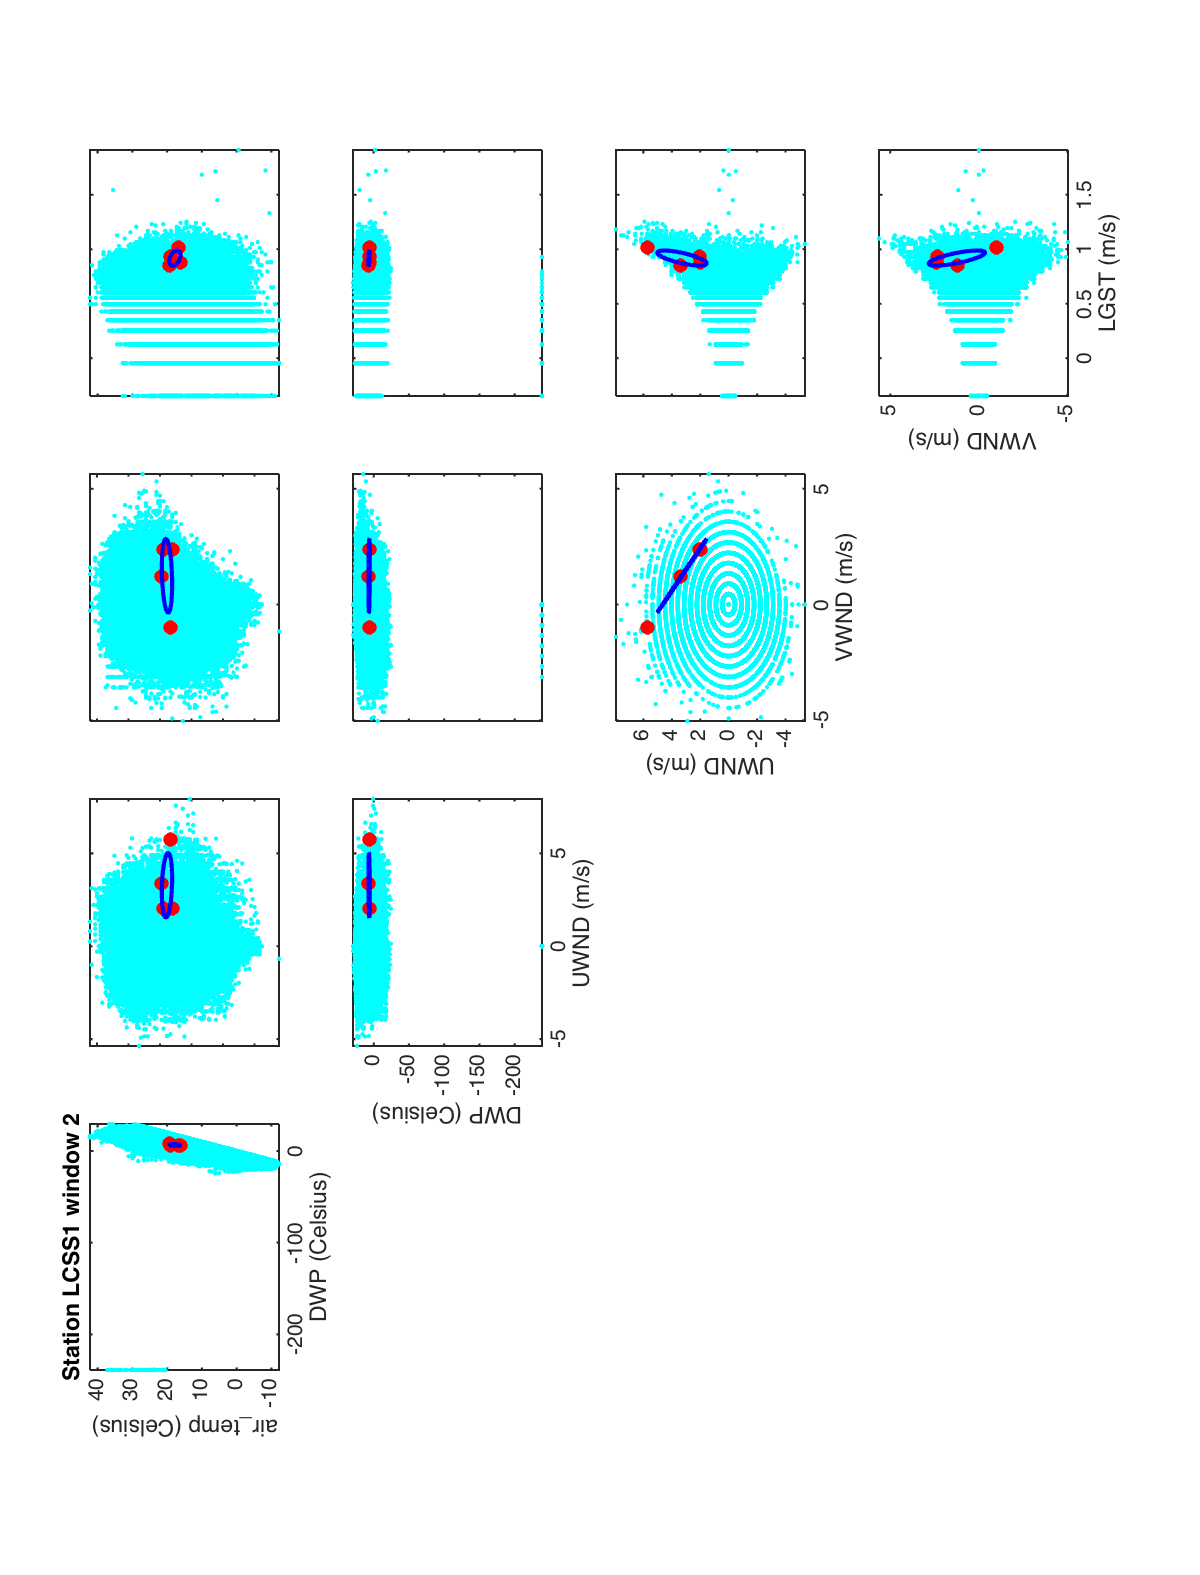
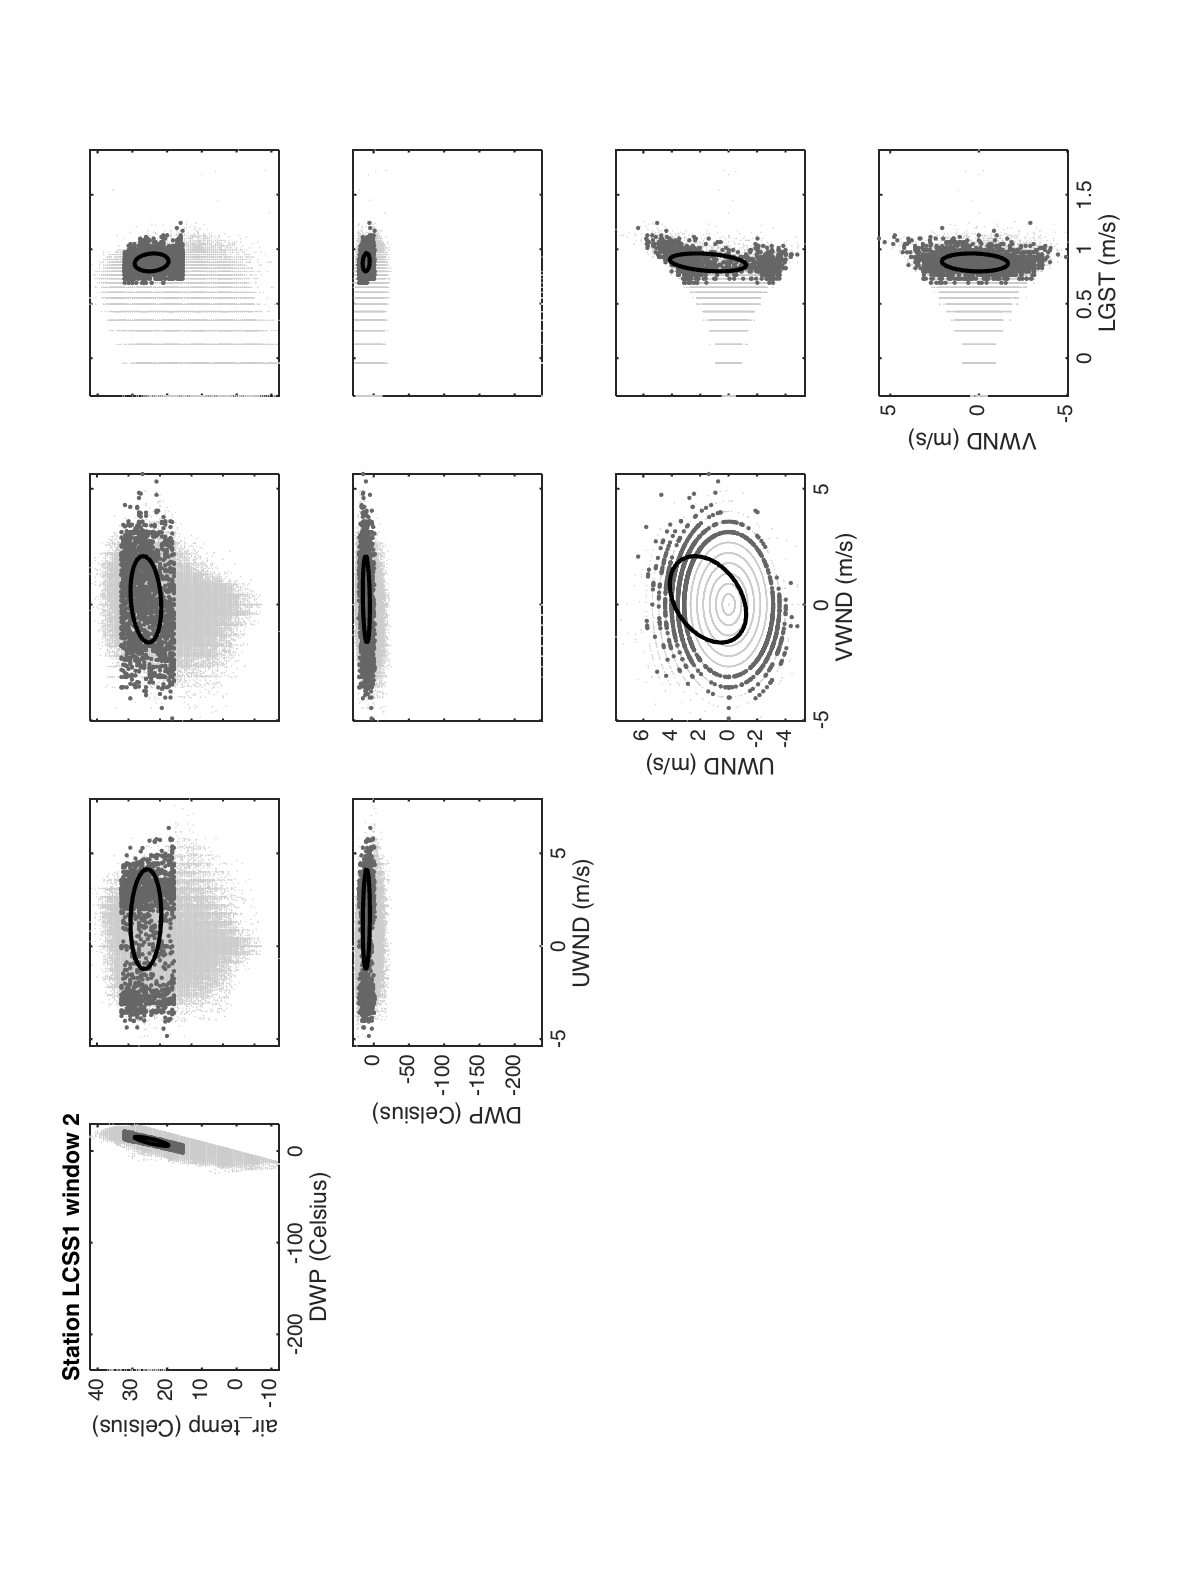
plot data with covariance ellipses

diff --git a/aimefournier/matlab/analXls.m b/aimefournier/matlab/analXls.m
@@ -179,7 +179,7 @@
     sta(i).u{kd} = sta(i).u{ks};	% change label units
  end,clear d2c i j kd kg kr ks kt
  %% 
- if ~any(strcmp(fieldnames(sta),'mom'))	% Moments not computed yet
+ if ~any(strcmp(fieldnames(sta), 'mom'))% Moments not computed yet
     %
     % Get indexes for data types:
     %
@@ -188,7 +188,7 @@
     ku = find(strcmp(datList(1 : nDat), 'UWND'     ));
     kv = find(strcmp(datList(1 : nDat), 'VWND'     ));
     ib = @(a,x) a(1) <= x & x <= a(2);	% in-between condition
-%     n = sum(cell2mat({sta.nWin})) + 1;
+    n = sum(cell2mat({sta.nWin})) + 1;
     for i = lSta			% station (with burn requirements) loop:
        for l = 1 : sta(i).nWin		% window loop at station i:
 	  %
@@ -238,9 +238,9 @@
 	  end
 	  g = logical(prod(f, 2));	% 'AND' through all requirements
 	  if sum(g) > 1			% at least 2 data pass requirements
-% 	     figure(n)
-% 	     set(gcf, 'Units', 'normalized', 'OuterPosition', [1/8 0 7/8 1], 'Units', 'pixels')
-% 	     clf
+	     figure(n)
+	     set(gcf, 'Units', 'normalized', 'OuterPosition', [1/8 0 7/8 1], 'Units', 'pixels')
+	     clf
 	     m = 0;			% initialize correlation index
 	     for k = 1 : nDat - 1	% correlation row k
 		for j = k + 1 : nDat	% correlation column j (upper diagonal)
@@ -250,28 +250,28 @@
 		   %
 		   a = corrcoef(sta(i).d(g,j), sta(i).d(g,k));
 		   sta(i).mom(l).r(m) = a(1,2);
-% 		   subplot(nDat - 1, nDat - 1, (nDat - 1)*(k - 1) + j - 1, 'align')
-% 		   plot(sta(i).d(~g,j), sta(i).d(~g,k), 'c.', ...
-% 		        sta(i).d( g,j), sta(i).d( g,k), 'ro', 'MarkerFaceColor', 'r')
-% 		   set(covEllip(sta(i).mom(l).s([j k]), sta(i).mom(l).r(m), sta(i).mom(l).m([j k])), ...
-% 		      'Color', 'b', 'LineWidth', 2)
-% 		   if j == k + 1
-% 		      if k == 1
-% 			 title(sprintf('Station %s window %d', sta(i).name, l))
-% 		      end
-% 		      xlabel(sprintf('%s (%s)', strrep(datList{j}, '_', '\_'), sta(i).u{j}))
-% 		      ylabel(sprintf('%s (%s)', strrep(datList{k}, '_', '\_'), sta(i).u{k}))
-% 		   else
-% 		      set(gca, 'XTickLabel', '', 'YTickLabel', '')
-% 		   end
-% 		   axis tight
+		   subplot(nDat - 1, nDat - 1, (nDat - 1)*(k - 1) + j - 1, 'align')
+		   plot(sta(i).d(~g,j), sta(i).d(~g,k), '.', 'Color', .8*[1 1 1], 'MarkerSize', 1)
+		   line(sta(i).d( g,j), sta(i).d( g,k), 'Color', .4*[1 1 1], 'LineStyle', 'none', 'Marker', '.', 'MarkerSize', 6)
+		   set(covEllip(sta(i).mom(l).s([j k]), sta(i).mom(l).r(m), sta(i).mom(l).m([j k])), ...
+		      'Color', 'k', 'LineWidth', 2)
+		   if j == k + 1
+		      if k == 1
+			 title(sprintf('Station %s window %d', sta(i).name, l))
+		      end
+		      xlabel(sprintf('%s (%s)', strrep(datList{j}, '_', '\_'), sta(i).u{j}))
+		      ylabel(sprintf('%s (%s)', strrep(datList{k}, '_', '\_'), sta(i).u{k}))
+		   else
+		      set(gca, 'XTickLabel', '', 'YTickLabel', '')
+		   end
+		   axis tight
 		end
 	     end
-% 	     drawnow
-% 	     orient tall
-% 	     orient landscape		% needs to follow 'tall'
-% 	     print(n, '-dpng', sprintf('figures/%s_w%d_scat', sta(i).name, l))
-% 	     n = n + 1;
+	     drawnow
+	     orient tall
+	     orient landscape		% needs to follow 'tall'
+	     print(n, '-dpng', sprintf('figures/%s_w%d_scat', sta(i).name, l))
+	     n = n + 1;
 	  else
 	     fprintf('\n%s-%d has no good data\n\n', sta(i).name, l)
 	  end
